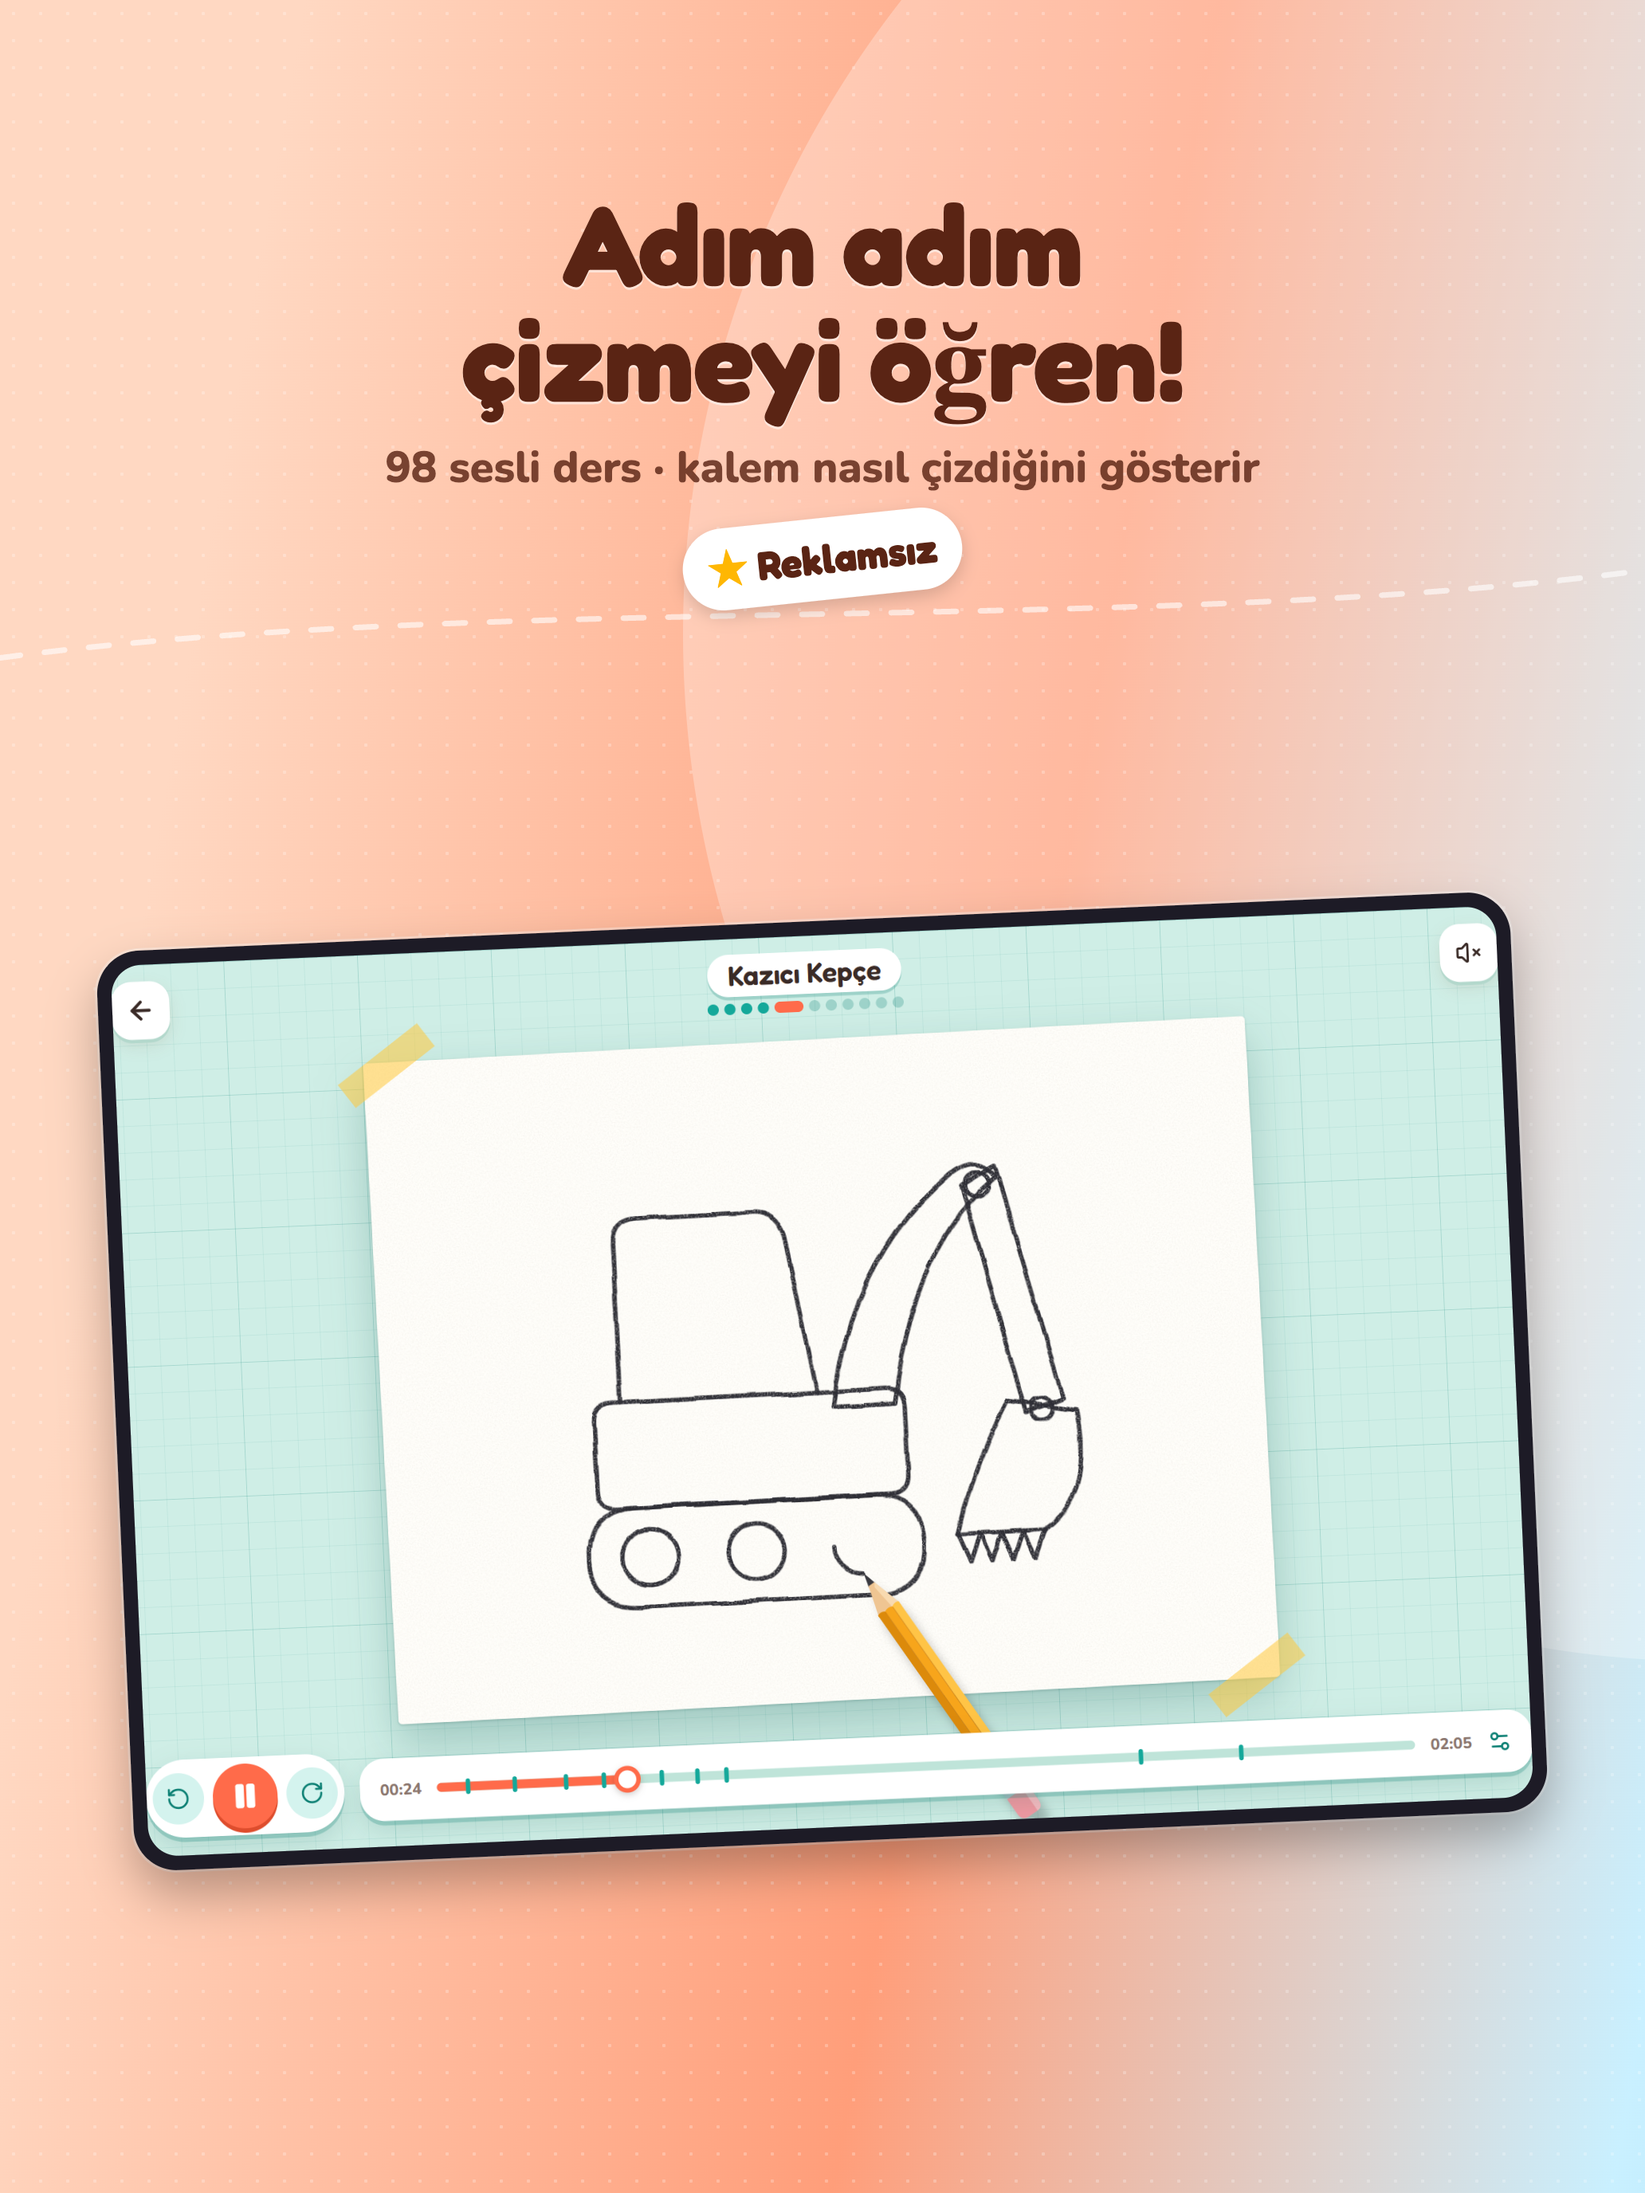
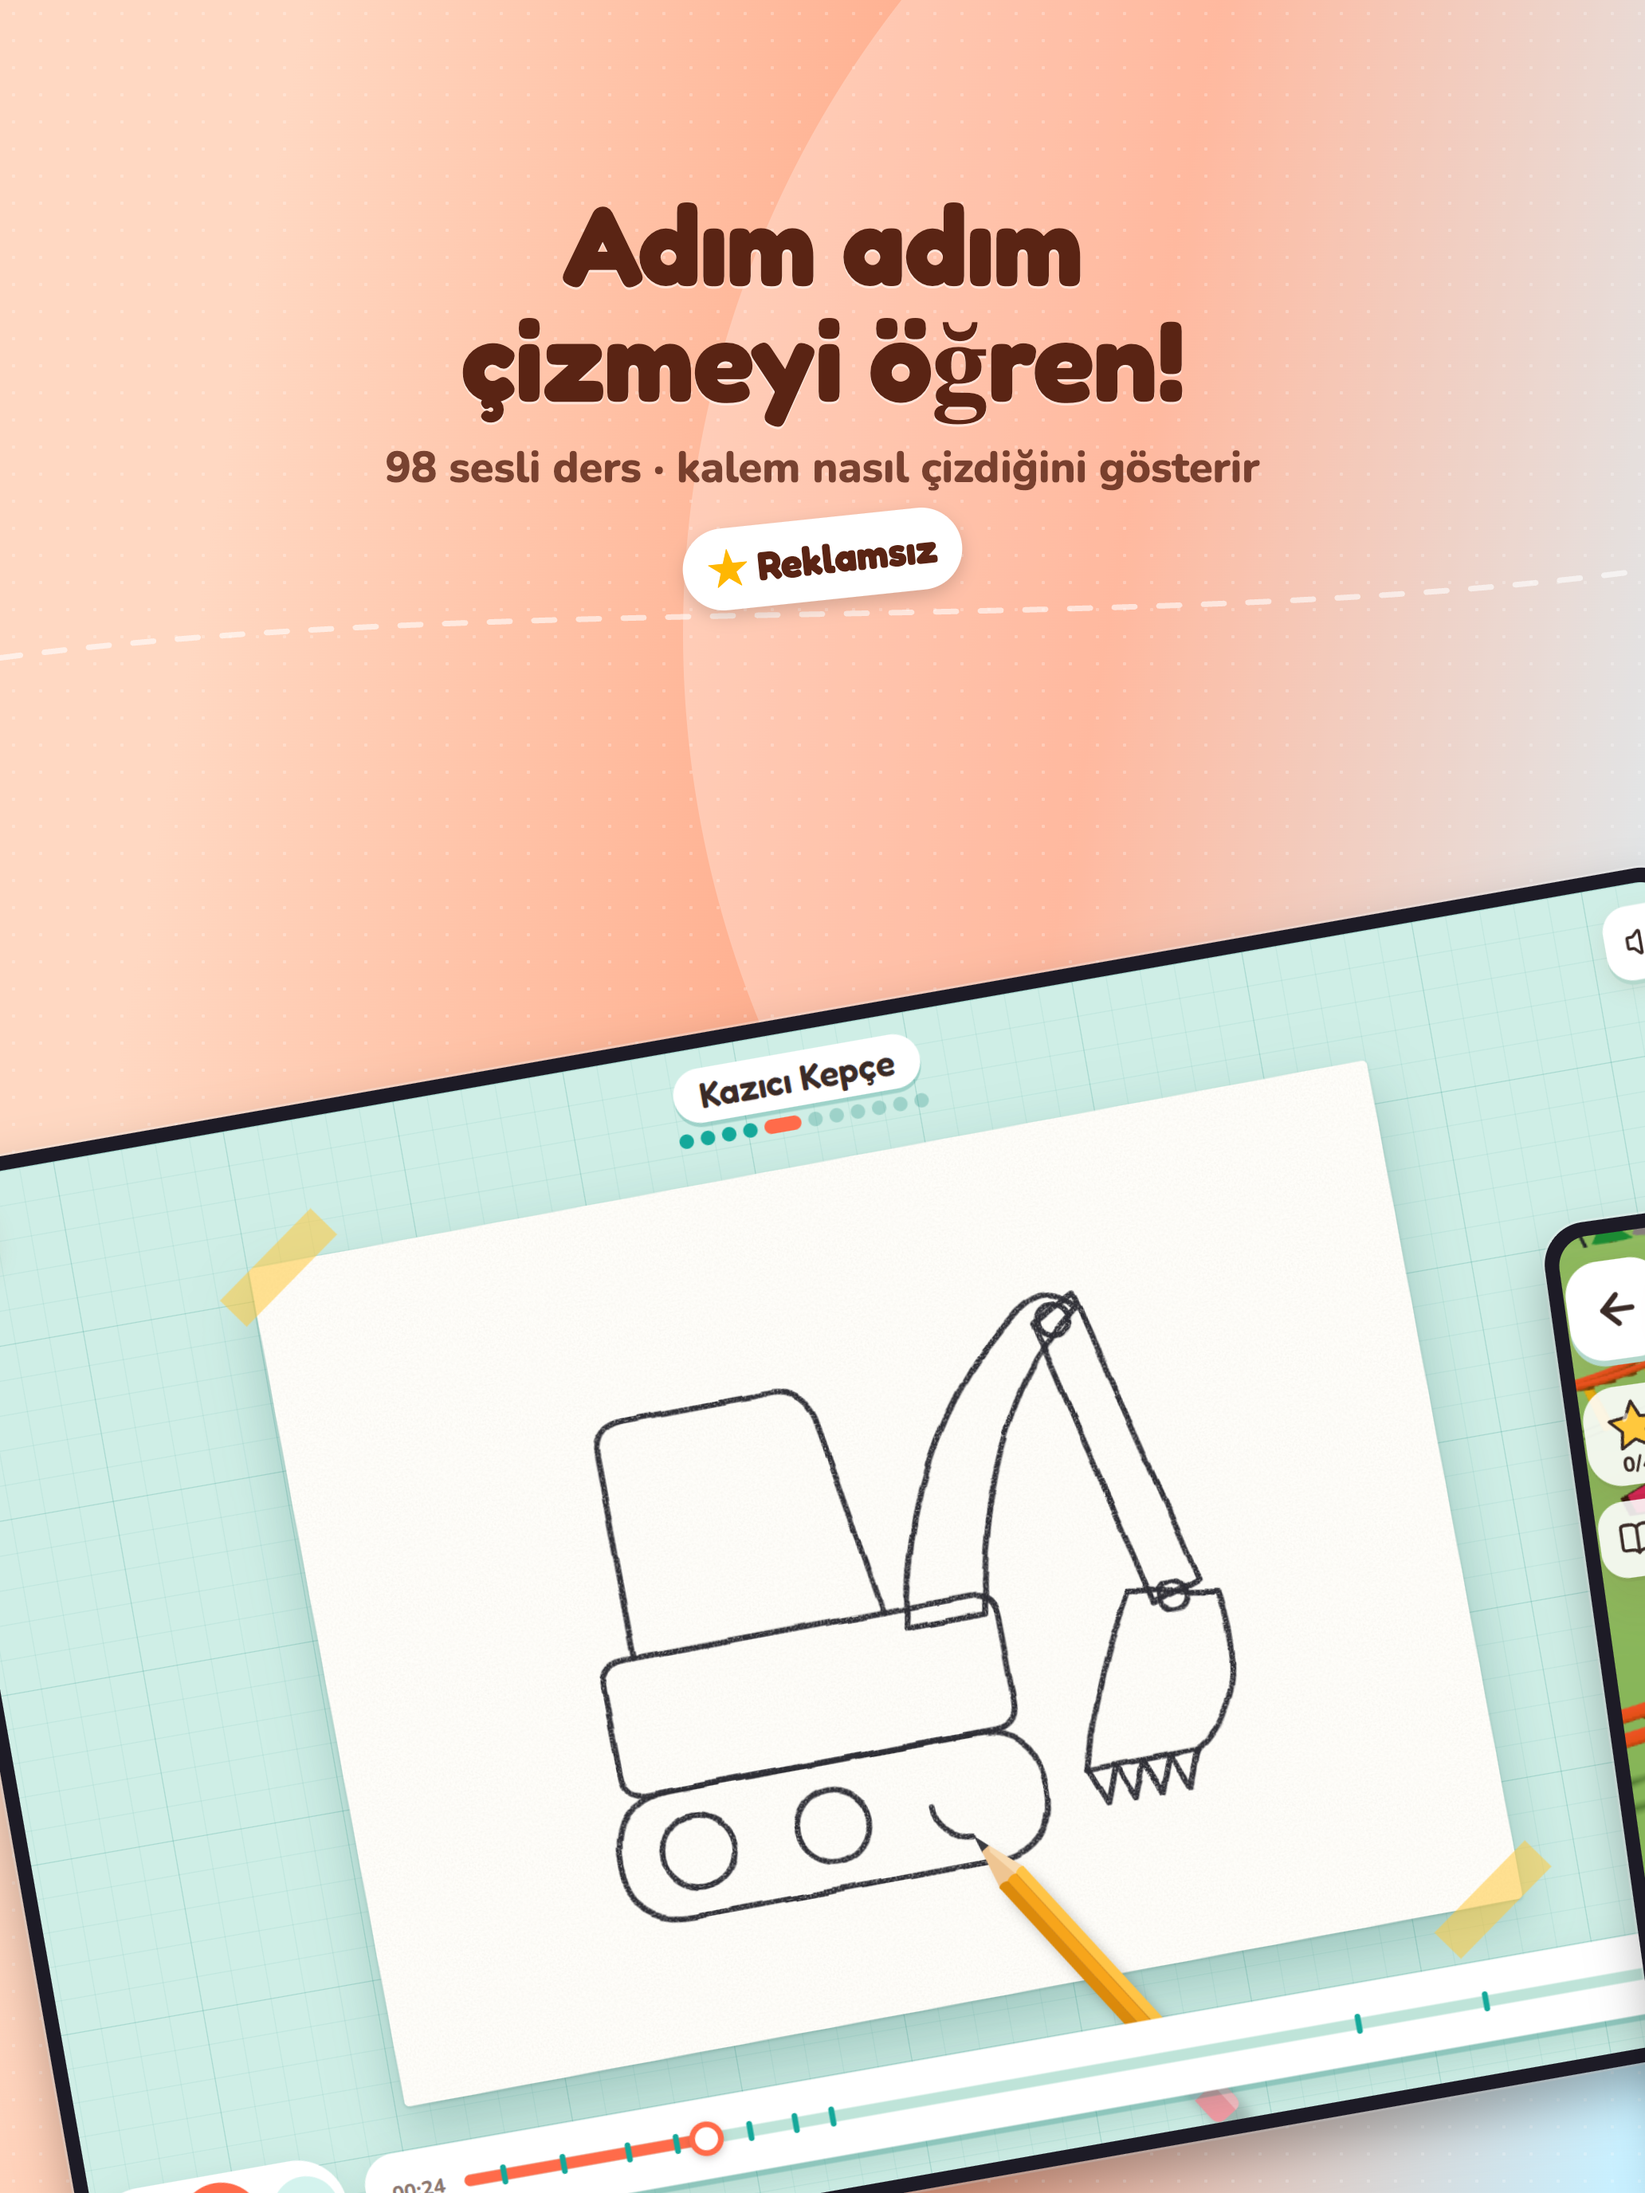
Sürüm 1.7.0 (Android 11) ve App Store görselleri: yamuk telefonlar, panoramik geçiş
- Android paketi 1.7.0 (versionCode 11) hazır; yayın rehberi store/release-1.7.0.md
- App Store görsellerinde telefon/tabletler belirgin yatık ve büyük; köşeleri yandaki görüntüye taşar,
  mağazada yan yana bakınca tek parça panorama gibi akar

diff --git a/store/release-1.7.0.md b/store/release-1.7.0.md
@@ -1,0 +1,36 @@
+# Çizio 1.7.0 (versionCode 11) — Google Play yayın rehberi
+
+Play'deki son sürüm 1.6.0 (versionCode 10, yayında). 1.7.0, 1.6.0'dan sonraki bütün yenilikleri içerir.
+
+## Yüklenecek dosya
+
+| Ne | Dosya |
+|---|---|
+| Uygulama paketi | `store/release/cizio-1.7.0.aab` (~151 MB; seslendirme yine `voicepack` ek paketinde) |
+
+Play ekran görüntüleri, simge ve mağaza metinleri değişmedi. App Store görselleri (`store/promo/ios/`) yenilendi:
+telefonlar yamuk duruyor ve bir görüntüden ötekine taşıyor (panorama).
+
+Mac'te derleme: `npm run android:sync`, sonra `android` klasöründe
+`JAVA_HOME=$(/usr/libexec/java_home -v 21) sh gradlew bundleRelease`.
+
+## Yükleme
+
+1. Play Console → Çizio → **Test ve yayınla → Üretim** → **Yeni sürüm oluştur**.
+2. **Yükle** → `cizio-1.7.0.aab`. Sürüm adı otomatik gelir: `11 (1.7.0)`.
+3. **Sürüm notları** → aşağıdaki metin.
+4. **Sonraki** → **Kaydet** → **Sürümü incelemeye gönder**.
+
+### Sürüm notları (tr-TR)
+
+```
+<tr-TR>
+• Çizio Adası büyüdü: yeni Yarış Kıyısı! Kart yarışı, engelli koşu, volkan ve buz parkuru
+• Engel parkuru, trambolin parkı ve balon alanı
+• Zıplamak artık çok daha kolay
+• Ada açılınca ekran kendiliğinden yan döner
+• Binaların, tabelaların ve eşyaların içinden geçilmez; tekneler denizde
+• Minecraft gibi kolay inşa: seçtiğin blok elinde
+• Uygulama daha küçük
+</tr-TR>
+```
